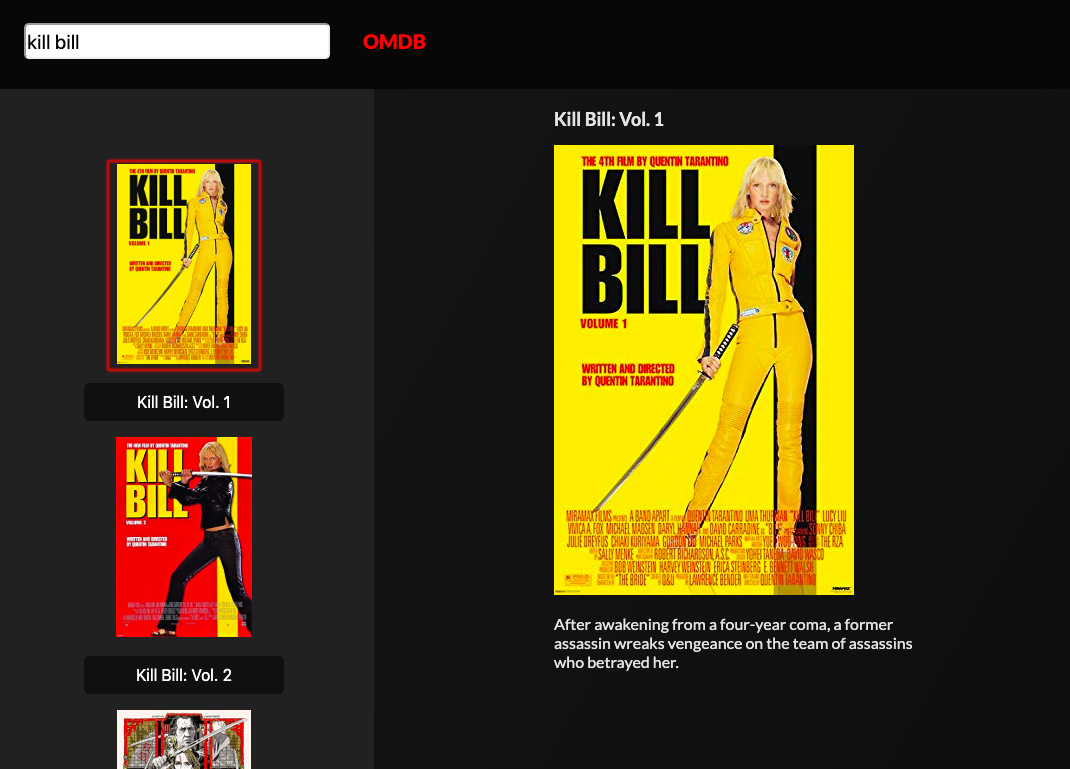
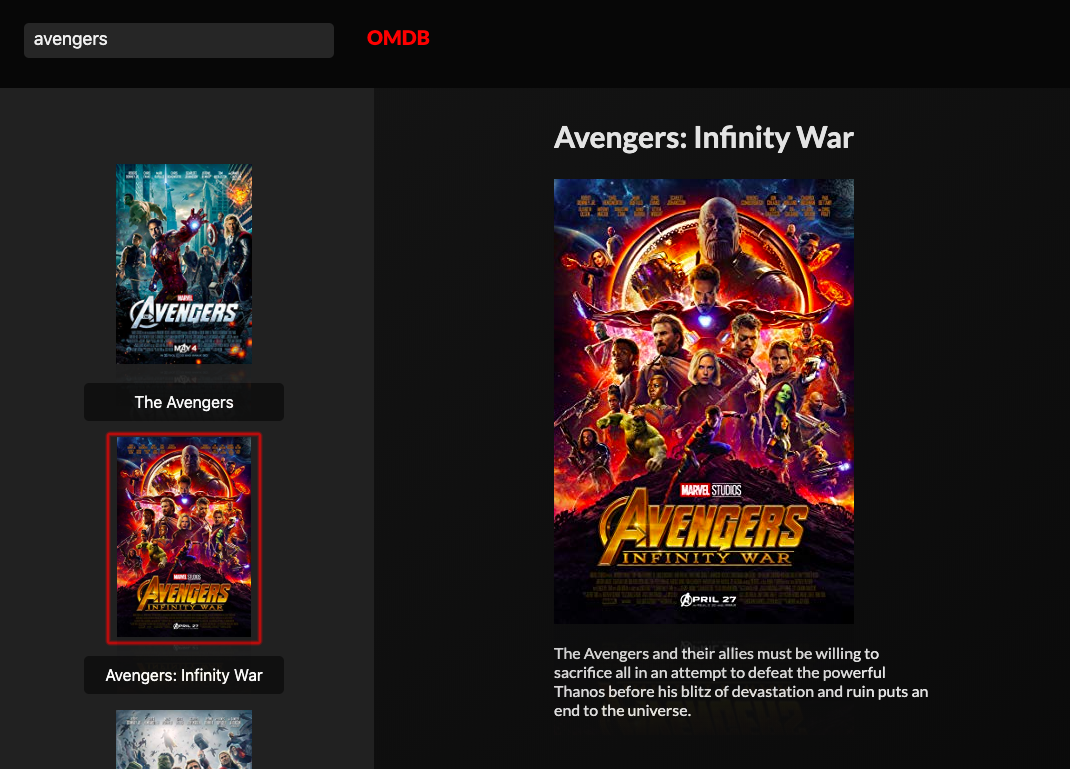
img

diff --git a/Assignments/7-22/super-hero-movies-api/main.css b/Assignments/7-22/super-hero-movies-api/main.css
@@ -6,10 +6,16 @@ body {
     color: rgb(227, 227, 227);
 }
 
+.movie-details__title {
+    font-size: 30px;
+}
+
 .movie-list__poster {
+    -webkit-box-reflect: below 0px -webkit-gradient(linear, left top, left bottom, from(transparent), color-stop(70%, transparent) , to(rgba(250, 250, 250, 0.1)));
     height: 200px;
     width: auto;
     z-index: 999;
+    
 }
 
 .movie-list__poster:hover {
@@ -31,6 +37,8 @@ h2 {
     background-color: rgb(33, 33, 33);
     align-items: center;
     text-align: center;
+    overflow-y: scroll;
+    height: 100vh;
 }
 
 
@@ -45,7 +53,6 @@ h2 {
 
 .movies {
     display: flex;
-
 }
 
 .search-area {
@@ -55,6 +62,7 @@ h2 {
     width: -webkit-fill-available;
     margin-top: -10px;
     margin-left: -10px;
+    z-index: 10000;
 
 }
 
@@ -62,9 +70,22 @@ h2 {
     margin: 30px;
     width: 300px;
     height: 30px;
-    font-size: 20px;
+    font-size: 18px;
     border-radius: 5px;
     overflow: hidden;
+    background: #262626;
+    border: none;
+    color: rgb(240, 240, 240);
+    padding: 0 0 5px 10px;
+    font-weight: 400;
+}
+
+#searchbox:focus {
+    outline-color: red;
+}
+
+#searchbox::selection {
+    background-color: red;
 }
 
 .movie-list__title {
@@ -83,7 +104,7 @@ h2 {
 }
 
 .movie-list__title:hover {
-    background-color: red;
+    background-color: rgba(255, 0, 0, 0.598);
     /* color: red; */
   }
 
@@ -123,4 +144,12 @@ span {
     color: red;
     font-size: 20px;
     font-weight: 800;
+}
+
+.movie-details-img {
+    -webkit-box-reflect: below 0px -webkit-gradient(linear, left top, left bottom, from(transparent), color-stop(70%, transparent) , to(rgba(250, 250, 250, 0.1)));s
+}
+
+.movie-details__stuff {
+    /* display: flex; */
 }

diff --git a/Assignments/7-22/super-hero-movies-api/movies.js b/Assignments/7-22/super-hero-movies-api/movies.js
@@ -67,9 +67,9 @@ function showDetails(imdbid) {
 
         
         let movieDetails =
-            `<div>
-                <h2>${moviesDetails.Title}</h2>
-                <img src='${moviesDetails.Poster == "N/A" ? "placeholder.png" : moviesDetails.Poster}'>
+            `<div class='movie-details__stuff'>
+                <h2 class='movie-details__title'>${moviesDetails.Title}</h2>
+                <img src='${moviesDetails.Poster == "N/A" ? "placeholder.png" : moviesDetails.Poster}' class='movie-details-img'>
                 <p>${moviesDetails.Plot}</p>
             </div>`
 
